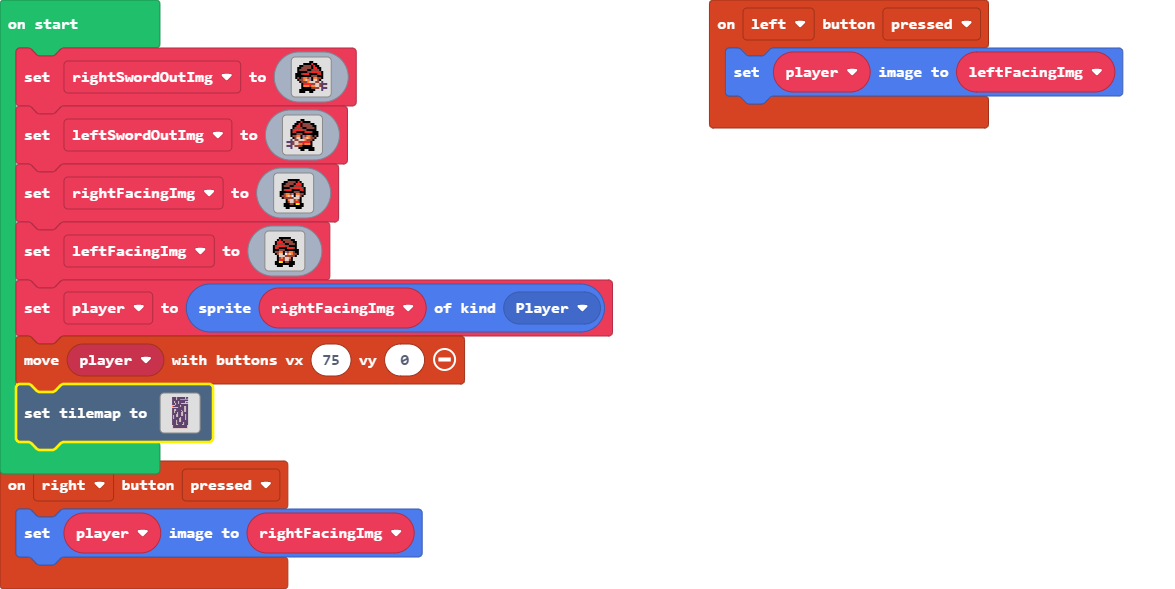
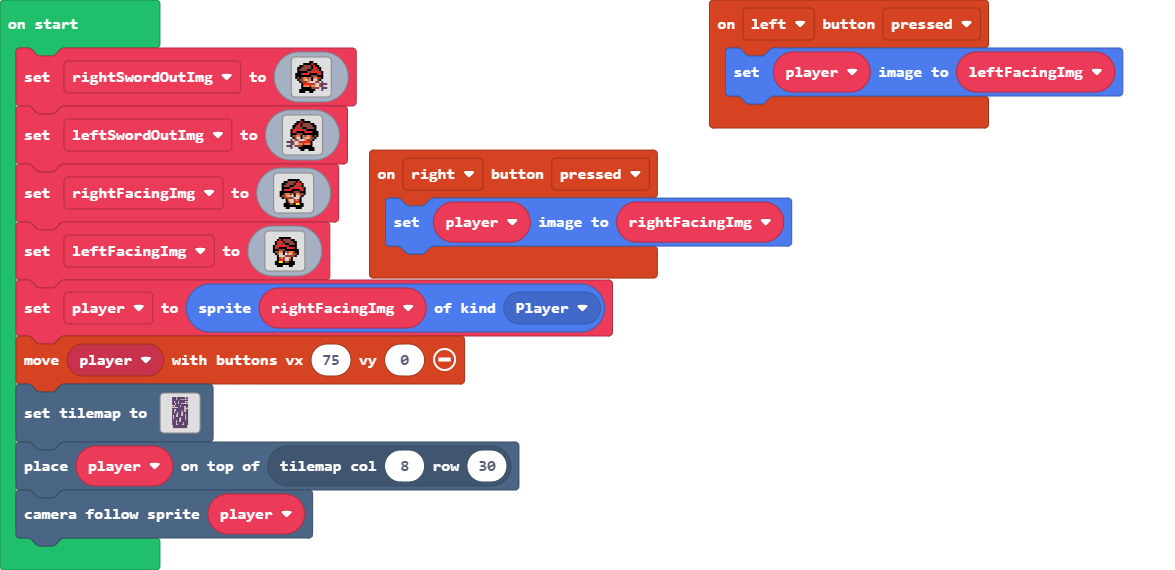
Update main.blocks, main.ts

diff --git a/main.ts b/main.ts
@@ -81,7 +81,7 @@ leftFacingImg = img`
     `
 player = sprites.create(rightFacingImg, SpriteKind.Player)
 controller.moveSprite(player, 75, 0)
-tiles.setTilemap(tiles.createTilemap(hex`100020000808080805080808080808080804080808080808050808080808080808040803080808080508080802020202020202020808080808080808080808080808080808080508080805080808080808040404080805080808050808080808080408060808080508080508080505050505050508080805080808080808080808080808050505080808080805080808080808080708080808080808050808080505080805050505050508080808080805050808080808080808080808080808050508080808050508080808080808080505080808080505080808080805080805050808080805080808080808080508050508080808050808050808080505080808080808080808080508080805050808080808080808080505080808050508080508080805080805050808080505080805080808050808050508080808080808050808080508080808080805080808080508080805080808080805050808080805080808080808080808050508080808050808080808080508080505080808080808080808080805080805050808080808080808080808050808080808080508080808080808080508080808080805080808080808080805050808080805050808080801080808080808080808080808080801010808080808080808080808080808010108080808080808080808080808080101010101010101010101010101010101`, img`
+tiles.setTilemap(tiles.createTilemap(hex`100020000808080805080808080808080804080808080808050808080808080808040803080808080508080802020202020202020808080808080808080808080808080808080508080805080808080808040404080805080808050808080808080408060808080508080508080505050505050508080805080808080808080808080808050505080808080805080808080808080708050808080808050808080505080805050505050508080808080805050809080808080808080808080808050505050808050508080808080808080505080808080505080808080805080805050808080805080808080808080508050508080808050808050808080505080808080808080808080508080805050808080808080808080505080808050508080508080805080805050808080505080805080808050808050508080808080808050808080508080808080805080808080508080805080808080805050808080805080808080808080808050508080808050808080808080508080505080808080808080808080805080805050808080808080808080808050808080808080508080808080808080508080808080805080808080808080805050808080805050808080801080808080808080808080808080801010808080808080808080808080808010108080808080808080808080808080101010101010101010101010101010101`, img`
     ....2........2..
     ....2........2..
     ....2...22222222
@@ -91,7 +91,7 @@ tiles.setTilemap(tiles.createTilemap(hex`100020000808080805080808080808080804080
     ...2..2..2222222
     ...2............
     222.....2.......
-    ........2...22..
+    ..2.....2...22..
     222222......22..
     ............22..
     ..22........22..
@@ -114,4 +114,6 @@ tiles.setTilemap(tiles.createTilemap(hex`100020000808080805080808080808080804080
     2..............2
     2..............2
     2222222222222222
-    `, [myTiles.transparency16,sprites.dungeon.floorLight2,sprites.dungeon.floorLight3,sprites.dungeon.chestClosed,sprites.dungeon.floorLight0,sprites.dungeon.floorLightMoss,sprites.dungeon.collectibleBlueCrystal,sprites.dungeon.collectibleRedCrystal,sprites.dungeon.darkGroundCenter], TileScale.Sixteen))
+    `, [myTiles.transparency16,sprites.dungeon.floorLight2,sprites.dungeon.floorLight3,sprites.dungeon.chestClosed,sprites.dungeon.floorLight0,sprites.dungeon.floorLightMoss,sprites.dungeon.collectibleBlueCrystal,sprites.dungeon.collectibleRedCrystal,sprites.dungeon.darkGroundCenter,sprites.dungeon.collectibleInsignia], TileScale.Sixteen))
+tiles.placeOnTile(player, tiles.getTileLocation(8, 30))
+scene.cameraFollowSprite(player)
